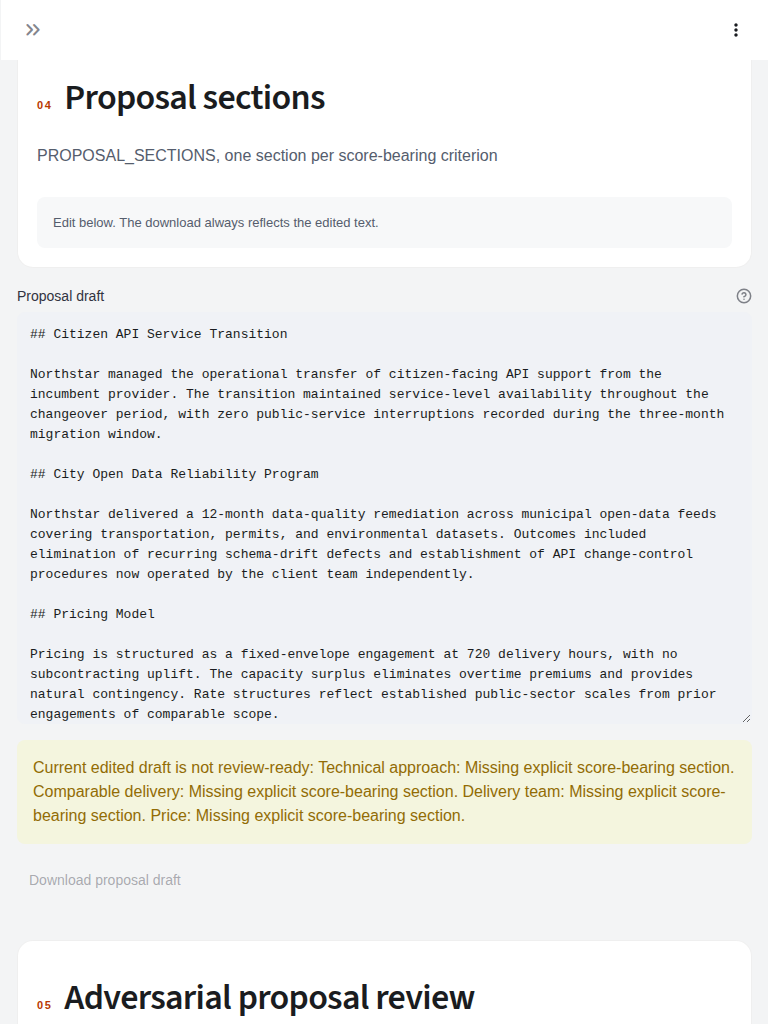
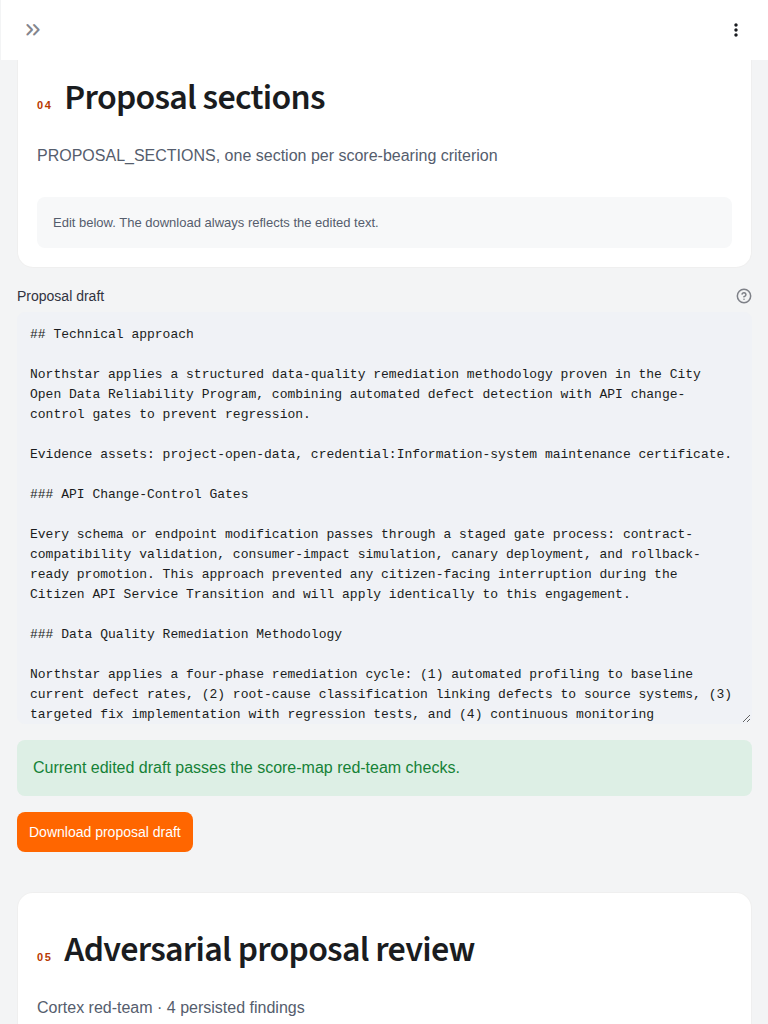
docs: freeze review-ready public submission

Changed region(s): [[0.0, 0.3125, 0.9375, 0.875], [0.0312, 0.9688, 0.625, 1.0], [0.0625, 0.9062, 0.625, 0.9375]]

diff --git a/dev/active/final-forge/artifact-league-20260802/reveal_official.py b/dev/active/final-forge/artifact-league-20260802/reveal_official.py
@@ -4,6 +4,7 @@
 from __future__ import annotations
 
 import json
+import hashlib
 from pathlib import Path
 
 
@@ -17,12 +18,15 @@ def load(path: Path):
 
 
 def main() -> None:
-    sealed = load(RUN / "sealed-aggregate.json")
+    sealed_path = RUN / "sealed-aggregate.json"
+    sealed_bytes = sealed_path.read_bytes()
+    sealed = json.loads(sealed_bytes)
     if sealed.get("status") != "SEALED_BEFORE_REVEAL":
         raise ValueError("aggregate was not sealed before reveal")
     identities = load(RUN / "private" / "identity-mapping.json")
     revealed = {
         "status": "REVEALED_AFTER_SEAL",
+        "sealed_aggregate_sha256": hashlib.sha256(sealed_bytes).hexdigest(),
         "parity_ranking": [],
         "source_locked_ranking": [],
     }

diff --git a/dev/active/final-forge/artifact-league-20260802/prepare_balanced_v2.py b/dev/active/final-forge/artifact-league-20260802/prepare_balanced_v2.py
@@ -32,6 +32,10 @@ def main() -> None:
     anchors = load(ROOT / "anchors.json")
     identities = load(ROOT / "run" / "private" / "identity-mapping.json")
     blind_by_name = {value["name"]: key for key, value in identities.items()}
+    identities = {
+        blind_by_name[candidate["identity"]["name"]]: candidate["identity"]
+        for candidate in candidates
+    }
 
     lane_packets = []
     assignments = []

diff --git a/docs/SUBMISSION-PACKAGE_2026-08-02_v2.md b/docs/SUBMISSION-PACKAGE_2026-08-02_v2.md
@@ -21,7 +21,7 @@ BidPilot combines a public tender's evaluation matrix with supplier operating me
 
 ### Portal brief, under 1,024 characters
 
-BidPilot is a Snowflake-native Bid Room for small B2G teams. It joins a public tender's requirements and evaluation weights with governed supplier credentials, capacity, people, and delivery history. Snowpark returns PURSUE, REVIEW, or NO-GO before drafting is allowed. For a viable bid, Cortex Code compares three Win Positions, creates score-weighted response plans, drafts eight editable proposal areas, red-teams the highest-value claims, and assigns missing evidence as owned work. Every decision, strategy, section, task, Cortex session, and query reference persists under one replayable run ID. A least-privilege Streamlit app reloads that run without fixture fallback. The verified prototype includes an authenticated 2x2 decision matrix, a complete runner-only Cortex run, 47 passing tests, responsive public deployment, a 4:38 English demo, and an eight-page PDF deck.
+BidPilot is a Snowflake-native Bid Room for small B2G teams. It joins a public tender's requirements and evaluation weights with governed supplier credentials, capacity, people, and delivery history. Snowpark returns PURSUE, REVIEW, or NO-GO before drafting is allowed. For a viable bid, Cortex Code compares three Win Positions, creates score-weighted response plans, drafts eight editable proposal areas, red-teams the highest-value claims, and assigns missing evidence as owned work. Every decision, strategy, section, task, Cortex session, and query reference persists under one replayable run ID. A least-privilege Streamlit app reloads that run without fixture fallback. The verified prototype includes an authenticated 2x2 decision matrix, a complete runner-only Cortex run, 48 passing tests, responsive public deployment, a 4:38 English demo, and an eight-page PDF deck.
 
 ### Portal links and file
 
@@ -53,7 +53,7 @@ This workflow requires more than a chat transcript. Snowflake holds the versione
 - Score-weighted proposal depth and criterion-specific supplier assets.
 - A red-team that detects missing assets and empty validation or buyer-outcome content in the top-weighted response.
 - An authenticated Streamlit Bid Room with editable/downloadable Markdown and no fixture fallback.
-- Forty-seven passing tests and public authenticated app renders at 1440, 768, and 390 CSS pixels.
+- Forty-eight passing tests and public authenticated app renders at 1440, 768, and 390 CSS pixels.
 
 ### Business value
 
@@ -124,7 +124,7 @@ The repository contains a 278.136-second, 1440×900 H.264/AAC final demo at `dev
 
 **Headline:** Authenticated end to end.
 
-**Copy:** Two tenders by two suppliers produce PURSUE, NO-GO, PURSUE, and REVIEW. The final Cortex run contains one decision, three strategies with one selected, four plans, eight sections, twelve tasks, and reproducible Snowflake and Cortex provenance. Forty-seven tests pass.
+**Copy:** Two tenders by two suppliers produce PURSUE, NO-GO, PURSUE, and REVIEW. The final Cortex run contains one decision, three strategies with one selected, four plans, eight sections, twelve tasks, and reproducible Snowflake and Cortex provenance. Forty-eight tests pass.
 
 ### Slide 8 — From one bid to operating memory
 
@@ -165,7 +165,7 @@ The authenticated account must contain the objects defined in `snowflake/sql/01_
 | Pursuit policy | Compute eligibility, capacity gap, comparable delivery, and status | Matching Python and authenticated Snowpark vectors |
 | Agent execution | Query the graph and create strategy, response plans, sections, and tasks | Cortex Code CLI complete run with session and query IDs |
 | Bid Room | Reload one complete run, expose the score map, edit proposal text, and download | Streamlit through `BIDPILOT_READER`, without fixture fallback |
-| Verification | Exercise gates, content variation, persistence, and responsive UI | 47 tests, authenticated AppTest, 1440/768/390 captures |
+| Verification | Exercise gates, content variation, persistence, and responsive UI | 48 tests, authenticated AppTest, 1440/768/390 captures |
 
 ## Data, safety, and license disclosure
 

diff --git a/docs/MASTER-MAP.md b/docs/MASTER-MAP.md
@@ -88,7 +88,7 @@ BidPilot은 외부 B2G 공고의 평가 논리와 회사의 운영 메모리를 
 | 4 | L4 | root | done | pursuit policy와 Win Position Engine 구현 | policy vectors, 2×2 전략 변화 | 고정 사례나 고정 전략이 나옴 | proposal blueprint 구현 | Python policy와 strategy contract를 local test로 확인했습니다. |
 | 5 | L5 | root | done | 전략 주도 Proposal Builder 구현 | 평가항목별 section, profile별 출력 변화, NO-GO 차단 | 고정 템플릿 또는 NO-GO 생성 | CoCo orchestration | selected Win Position과 Blueprint를 연결한 local generator를 구현했습니다. |
 | 6 | L6 | root | done | CoCo run과 persistent Bid Room 구현 | complete run의 trace, sections, tasks 재조회 | 브라우저 state에만 남음 | evaluation과 submission | Cortex Code가 동일 run ID로 3 strategies, 4 plans, 8 sections, 12 tasks와 provenance를 저장했습니다. |
-| 7 | L7 | root | done | 실제 run 검증 | input validation, 2×2 parity, complete replay, 47 tests | 같은 run을 재현하지 못함 | 제출물 제작 | reader 역할의 authenticated AppTest와 proposal adversarial QA를 통과했습니다. |
+| 7 | L7 | root | done | 실제 run 검증 | input validation, 2×2 parity, complete replay, 48 tests | 같은 run을 재현하지 못함 | 제출물 제작 | reader 역할의 authenticated AppTest와 공개 앱 proposal red-team·download를 통과했습니다. |
 | 8 | L8 | root | in_progress | 제출물 제작과 제출 | 실제 run 기반 영어 자료, 영상, 제출 확인 | 제출 링크가 심사자에게 열리지 않음 | 완료 | 4분 38초 영문 영상, 8쪽 PDF 덱, 공개 앱·영상과 균형 재실행한 내부 artifact blind league 1위를 확인했고 포털 최종 확인이 남았습니다. |
 
 ## 5 Open / Unconfirmed
@@ -112,7 +112,7 @@ BidPilot은 외부 B2G 공고의 평가 논리와 회사의 운영 메모리를 
 
 ## 7 Status
 
-- 마지막 확인 신호: 2026-08-02 KST에 47 tests, runner-only Snowpark 2×2, Cortex Code complete run, reader reload, Cloud Run 1440/768/390 렌더를 확인했습니다.
+- 마지막 확인 신호: 2026-08-02 KST에 48 tests, runner-only Snowpark 2×2, Cortex Code complete run, review-ready reader reload, Cloud Run 1440/768/390 렌더를 확인했습니다.
 - 진행상황: L1--L7 완료. L8은 저장소 공개 전환, 포털 초안 입력과 승인 제출이 남았습니다. 공개 영상은 signed-out range 검증을 통과했고 균형 재실행한 내부 artifact blind league는 6개 중 1위였습니다.
 - 현재 주장 가능 범위: authenticated Snowflake Opportunity Graph, Snowpark policy parity, Cortex Code complete run, strategy 비교, proposal, adversarial review, owned tasks, replayable public Bid Room이 있습니다.
 - 외부 게이트: 저장소 public 전환과 제출 폼 최종 버튼은 Sergio 승인 전입니다.
@@ -133,3 +133,4 @@ BidPilot은 외부 B2G 공고의 평가 논리와 회사의 운영 메모리를 
 - 2026-08-02 v11: 실계정 grant·비용 경계, runner-only Snowpark와 Cortex 완주, 공개 앱, 4분 38초 영상, 8쪽 PDF 덱을 반영했습니다.
 - 2026-08-02 v12: 현재 artifact 6개 blind league 1위, 결선 4대 0, 공개 영상 링크와 signed-out 검증을 반영했습니다.
 - 2026-08-02 v13: 후보별 독립 3회가 되도록 blind league를 균형 재실행하고 PDF 작업 수와 CLI 버전 표기를 실데이터에 맞췄습니다.
+- 2026-08-02 v14: persisted section fragment를 평가항목별 초안으로 조합해 공개 앱의 false missing-section 판정을 제거하고 download 활성화를 검증했습니다.

diff --git a/PASSDOWN.md b/PASSDOWN.md
@@ -11,7 +11,7 @@ BidPilot 최종 제출 직전 상태의 복귀 지점입니다.
 - complete run은 decision 1, strategy 3 중 selected 1, response plan 4, proposal section 8, task 12와 query provenance를 가집니다.
 - 제안서 엔진의 raw/locked/REVIEW/NO-GO 차단, 배점별 내용 변화, 필수 8영역, 항목별 자산, 고배점 red-team 반례를 독립 재감사했고 모두 통과했습니다.
 - 세 Seed 후보를 동일 정보량으로 블라인드 평가했습니다. 절대점수는 decision-first가 높았지만, 세 레인의 양방향 결선은 모두 scoremap-first를 선택했습니다. 최종 앱은 score map 중심 하이브리드입니다.
-- 전체 테스트는 47개 통과합니다. authenticated AppTest에서 complete run, 9,202자 편집 초안, provenance 화면을 확인했습니다.
+- 전체 테스트는 48개 통과합니다. 공개 앱이 persisted section fragment를 네 score-bearing criterion 아래로 조합하며, 현재 draft는 red-team을 통과하고 download가 활성화됩니다.
 - 후보마다 서로 다른 세 심사자가 한 번씩 보도록 균형 재실행한 내부 artifact blind league에서 BidPilot은 parity 91점, source-locked 99점으로 모두 1위였습니다. 2위 VF Logistics와의 새 좌우 반전 결선도 4대 0으로 이겼습니다. 제출문에는 경쟁 우위의 내부 방향성 자료로만 사용합니다.
 - 공개 영상은 `https://storage.googleapis.com/bidpilot-demo-164282963747/BidPilot-Final-Demo.mp4`이며 signed-out HTTP range 요청이 206으로 통과합니다.
 

diff --git a/README.md b/README.md
@@ -44,7 +44,7 @@ The matrix runner persists `RUNNING`, `FAILED`, and `COMPLETED` states, requires
 
 | Surface | Verified state |
 |---|---|
-| Python proposal and policy suite | 47 tests pass |
+| Python proposal and policy suite | 48 tests pass |
 | Snowpark matrix | Four runner-only tender/supplier combinations match the Python policy and complete their persisted lifecycle |
 | Complete Cortex run | One decision, three strategies, four plans, eight sections, twelve tasks, and trace share one `run_id` |
 | Streamlit authenticated mode | Complete run reloads through `BIDPILOT_READER` with editable/downloadable Markdown |
@@ -65,4 +65,4 @@ The replay records are synthetic contest fixtures. The included public G2B notic
 
 ## Change history
 
-- 2026-08-02: Applied runner lifecycle, least-privilege roles, bounded compute, a new Cortex Code run, responsive public deployment, and 47-test verification.
+- 2026-08-02: Applied runner lifecycle, least-privilege roles, bounded compute, a new Cortex Code run, responsive public deployment, criterion-grouped persisted drafting, and 48-test verification.

diff --git a/dev/active/final-forge/artifact-league-20260802/FINAL-REPORT.md b/dev/active/final-forge/artifact-league-20260802/FINAL-REPORT.md
@@ -65,3 +65,5 @@ BidPilot wins 4–0. The left item wins two of four non-ties, so observed positi
 - Top-two judgments: `run-v2/judge/pair-ab-1.json`, `pair-ab-2.json`, `pair-ba-1.json`, `pair-ba-2.json`
 
 The earlier `run/` directory is retained as superseded audit history. Its assignment plan was not one-candidate-per-lane balanced and must not be used for the final result.
+
+`run-v2/revealed-ranking.json` stores the SHA-256 of the exact sealed aggregate bytes. Recomputing that digest must match before the identity reveal is accepted.
